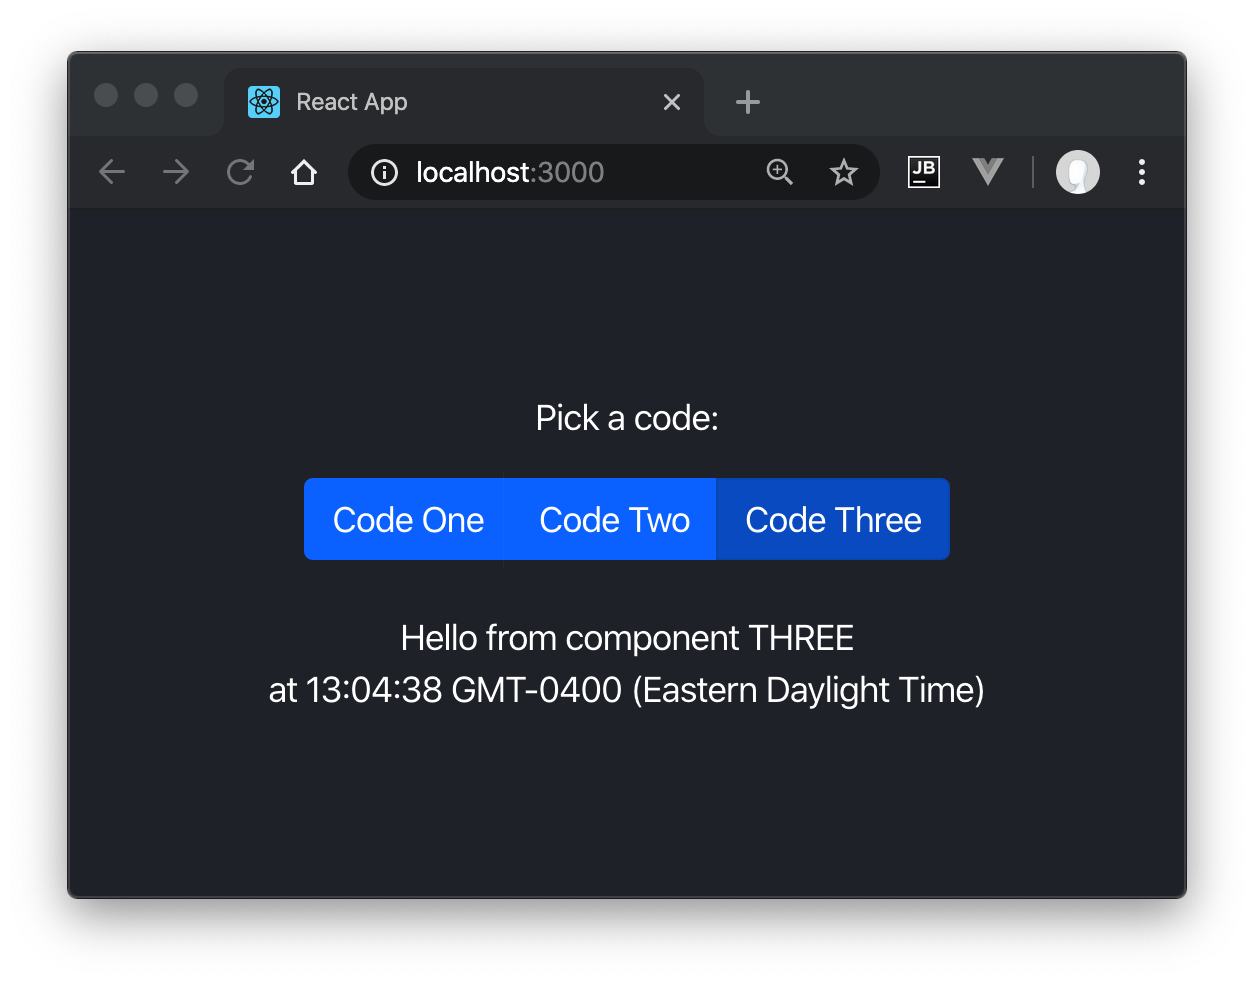
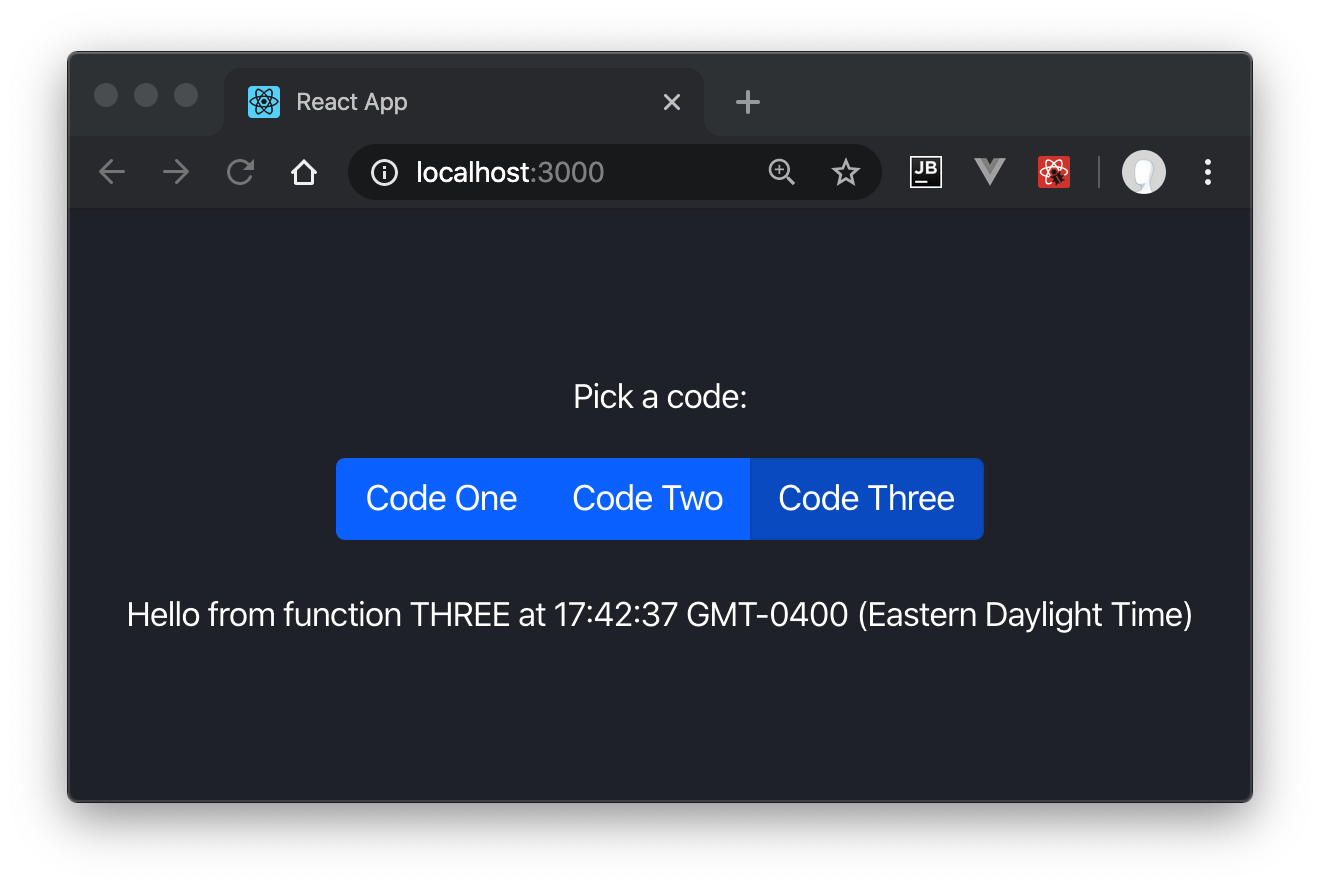
Init

diff --git a/src/App.js b/src/App.js
@@ -1,27 +1,22 @@
 import React, {useState} from 'react';
 import './App.css';
 import {ToggleButton, ToggleButtonGroup} from "react-bootstrap";
-import {RenderFactory} from "./renderFactory/RenderFactory";
+import {functionFactory} from "./functionFactory";
 
 function App() {
-
     const [code, setCode] = useState('One');
-
-    const onChange = (value) => {
-        setCode(value);
-    };
 
     return <div className="App">
         <header className="App-header">
             <p>Pick a code: </p>
-            <ToggleButtonGroup type="radio" name="group-options" defaultValue={code} onChange={onChange}>
+            <ToggleButtonGroup type="radio" name="group-options" defaultValue={code} onChange={setCode}>
                 <ToggleButton value={'One'}>Code One</ToggleButton>
                 <ToggleButton value={'Two'}>Code Two</ToggleButton>
                 <ToggleButton value={'Three'}>Code Three</ToggleButton>
             </ToggleButtonGroup>
             <br />
             <div>
-                <RenderFactory code={code} param={`at ${new Date().toTimeString()}`}/>
+                { functionFactory(code, new Date().toTimeString()) }
             </div>
         </header>
     </div>;

diff --git a/src/functionFactory.js b/src/functionFactory.js
@@ -1,0 +1,17 @@
+import functionOne from './dynamic/functionOne';
+import functionTwo from './dynamic/functionTwo';
+import functionThree from './dynamic/functionThree';
+
+const dispatchFunction = (functionNAme, param) => {
+    // To add a function: add its import above; then add a line for its name here:
+    const functionMap = {
+        functionOne,
+        functionTwo,
+        functionThree,
+    };
+    return functionMap[functionNAme](param) || (() => `Rats! Function ${functionNAme} not registered`)();
+};
+
+export function functionFactory(code, param) {
+    return dispatchFunction(`function${code}`, param);
+}

diff --git a/src/dynamic/functionThree.js b/src/dynamic/functionThree.js
@@ -1,0 +1,3 @@
+export default function functionThree(time) {
+    return `Hello from function THREE at ${time}`;
+}

diff --git a/src/dynamic/functionOne.js b/src/dynamic/functionOne.js
@@ -1,0 +1,3 @@
+export default function functionOne(time) {
+    return `Hello from function ONE at ${time}`;
+}

diff --git a/src/dynamic/functionTwo.js b/src/dynamic/functionTwo.js
@@ -1,0 +1,3 @@
+export default function functionTwo(time) {
+    return `Hello from function TWO at ${time}`;
+}

diff --git a/README.md b/README.md
@@ -1,55 +1,45 @@
-# Dynamic Component Dispatching
+# Dynamic Function Dispatching
 
-This demo addresses a need to dynamically call a React component by a string name.
+This demo addresses a need to dynamically call a JavaScript function by a string name.
 Approaches using `Eval` or `Function` are not allowed. 
 
-Instead, we use a JavaScript object to map a string key to a component name
-in a factory pattern. We could call the resolved component as a function, 
-but parameters are props in the React world. Instead, we use a factory that
-produces React component instantiations. Here is `RenderFactory.jsx`:
+Instead, we use a JavaScript object to map a string key to a function name
+in a factory pattern. Here is `functionFactory.js`:
 
 ```javascript
-import React from 'react';
-import RenderOne from '../components/RenderOne';
-import RenderTwo from '../components/RenderTwo';
-import RenderThree from '../components/RenderThree';
+import functionOne from './dynamic/functionOne';
+import functionTwo from './dynamic/functionTwo';
+import functionThree from './dynamic/functionThree';
 
-const dispatchCode = (renderer, param) => {
-    // To add component: add its import above; then add a line for its name here:
-    const code2Renderer = {
-        RenderOne: <RenderOne param={param}/>,
-        RenderTwo: <RenderTwo param={param}/>,
-        RenderThree: <RenderThree param={param}/>,
+const dispatchFunction = (functionNAme, param) => {
+    // To add a function: add its import above; then add a line for its name here:
+    const functionMap = {
+        functionOne,
+        functionTwo,
+        functionThree,
     };
-
-    return code2Renderer[renderer] || <>Rats! Code not found</>;
+    return functionMap[functionNAme](param) || (() => `Rats! Function ${functionNAme} not registered`)();
 };
 
-export function RenderFactory(props) {
-    const { code, param } = { ...props };
-    const component = `Render${code}`;
-
-    return dispatchCode(component, param);
+export function functionFactory(code, param) {
+    return dispatchFunction(`function${code}`, param);
 }
 ```
 
-A client component would invoke a child by `code` property string like this:
+A caller would invoke a function by a `code` property string like this:
 
 ```javascript
-<RenderFactory code={code} param={`at ${new Date().toTimeString()}`}/>
+{ functionFactory(code, new Date().toTimeString()) }
 ```
 
 The param property is our single parameter, but we could have coded for more
 parameters.
 
-Here is one demo dynamic component:
+Here is one demo dynamic function:
 
 ```javascript
-import React from "react";
-
-export default function RenderThree(props) {
-    const { param } = { ...props };
-    return <div>Hello from component THREE<br/>{param}</div>;
+export default function functionThree(time) {
+    return `Hello from function THREE at ${time}`;
 }
 ```
 
